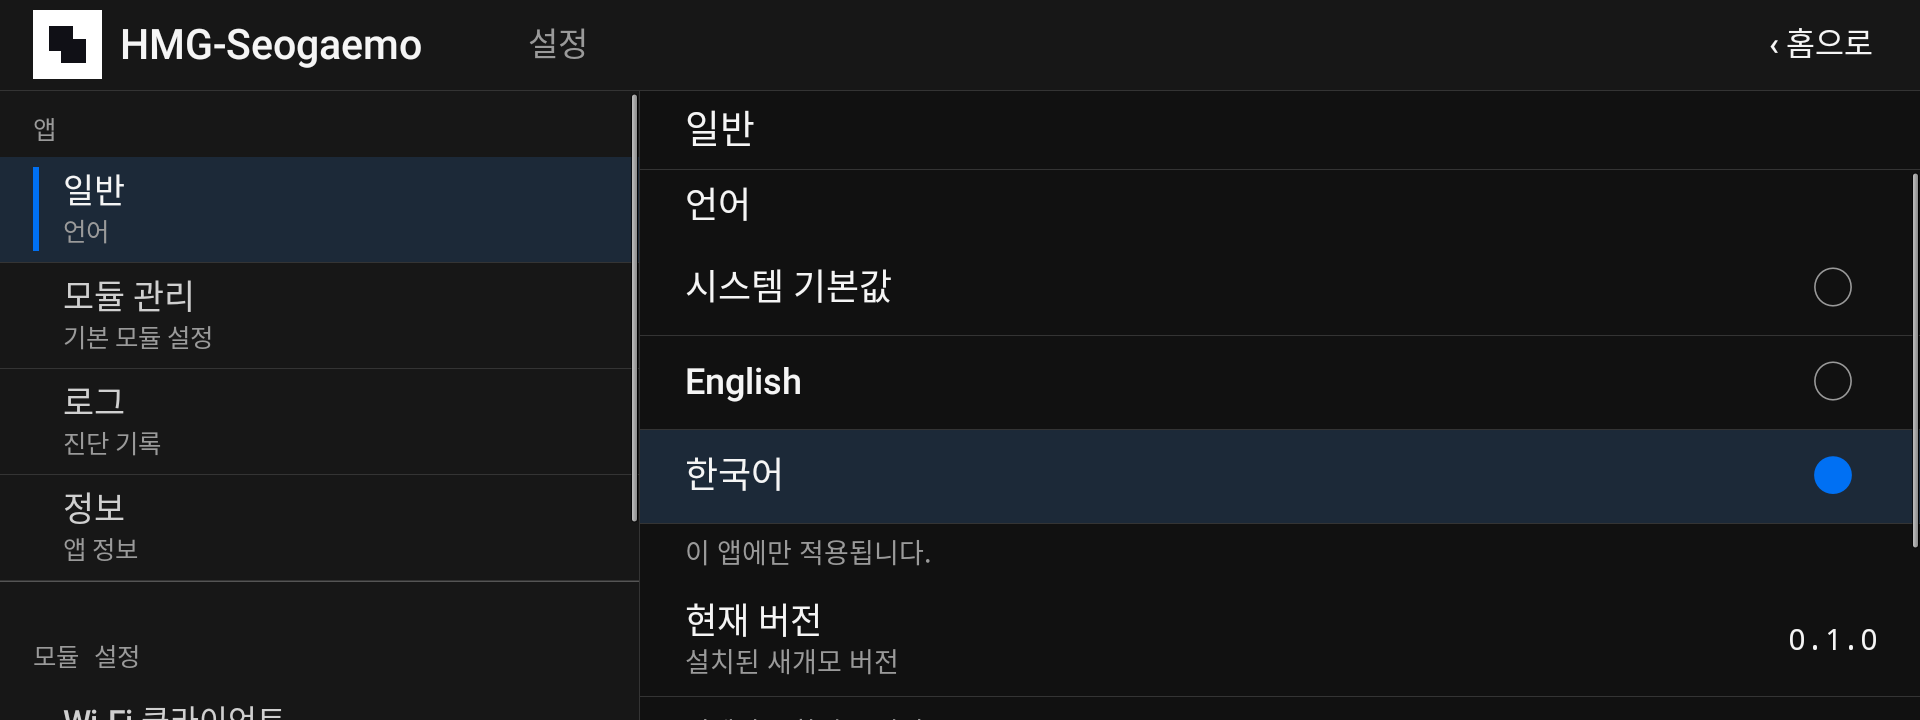
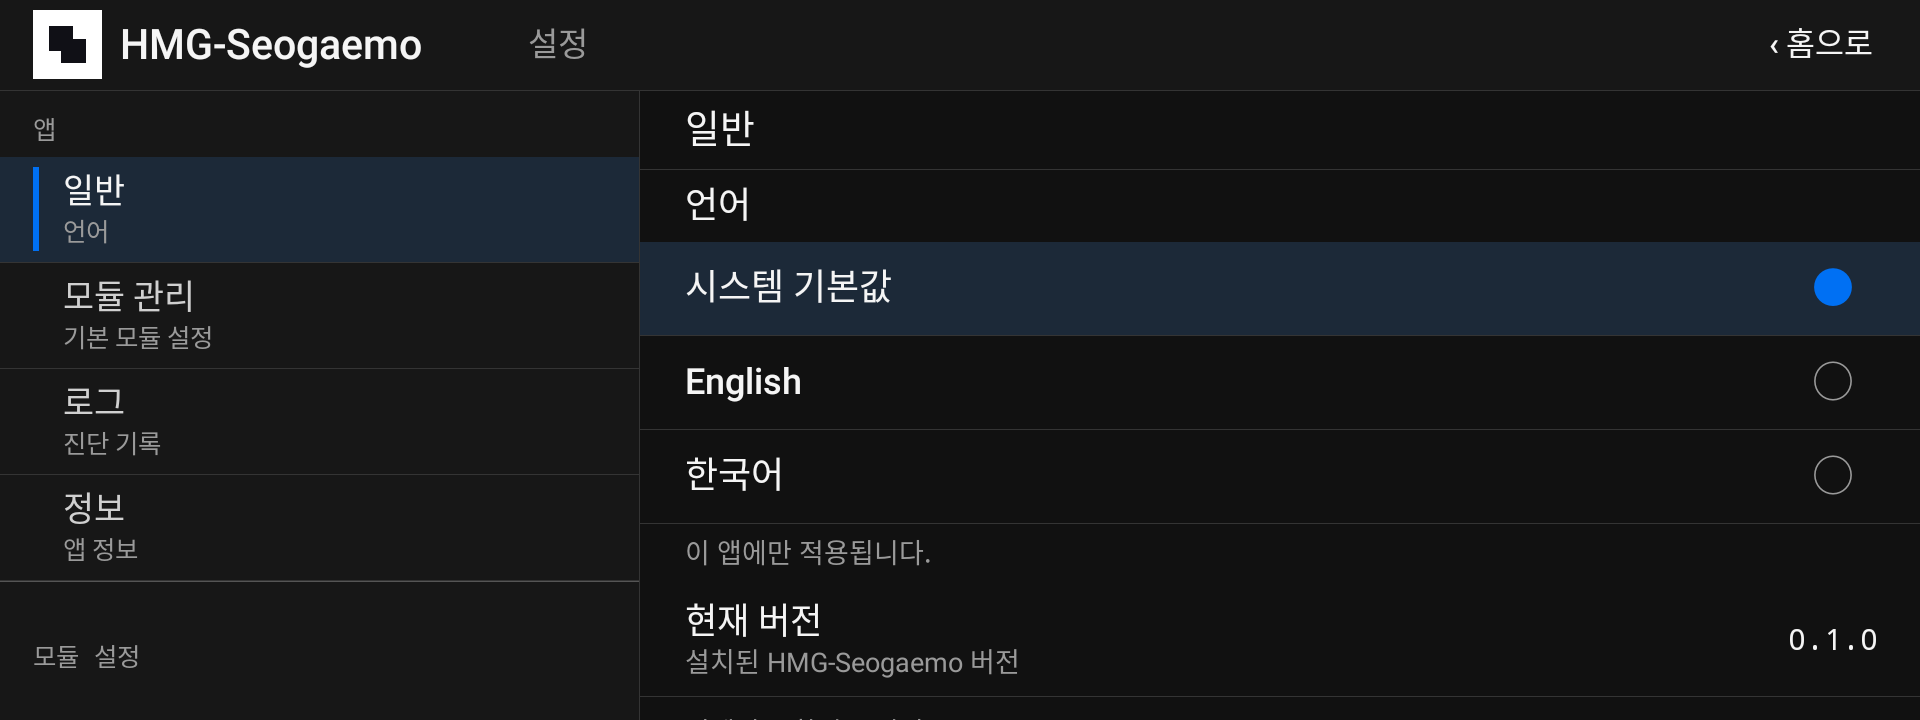
ui: drop module subtitle in settings sidebar, fix Korean version hint

diff --git a/app/src/com/seogaemo/hmg/MainActivity.java b/app/src/com/seogaemo/hmg/MainActivity.java
@@ -753,7 +753,6 @@ public final class MainActivity extends Activity {
         copy.setPadding(dp(16), 0, 0, 0);
         copy.addView(text(getString(module.nameResId()), 21,
                 index == category ? WHITE : 0xFFD0D0D0, medium));
-        copy.addView(text(getString(R.string.module_settings), 16, MUTED, sans));
         row.addView(copy, new LinearLayout.LayoutParams(0, -1, 1));
         row.setOnClickListener(new View.OnClickListener() {
             public void onClick(View view) { category = index; showSettings(); }
